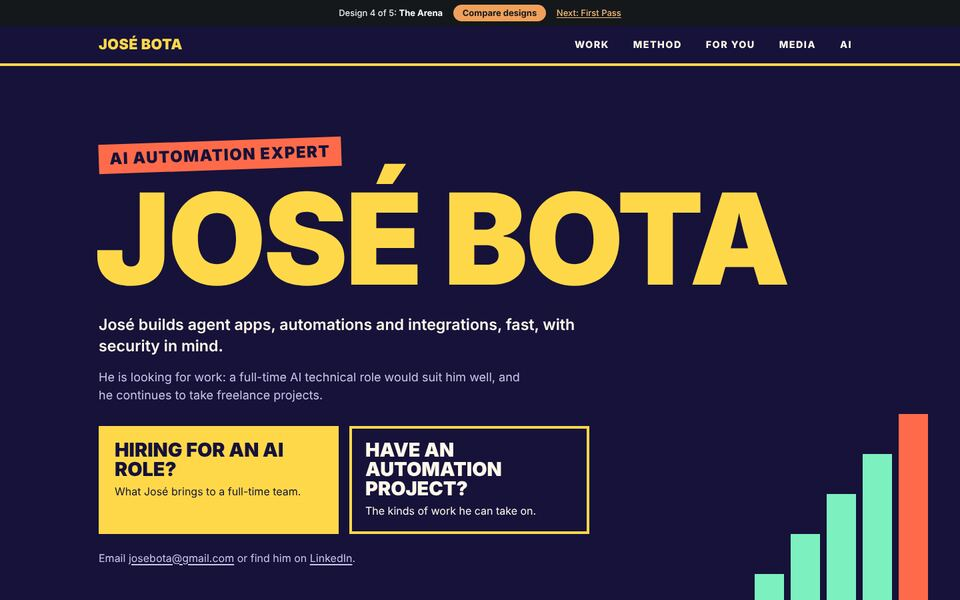
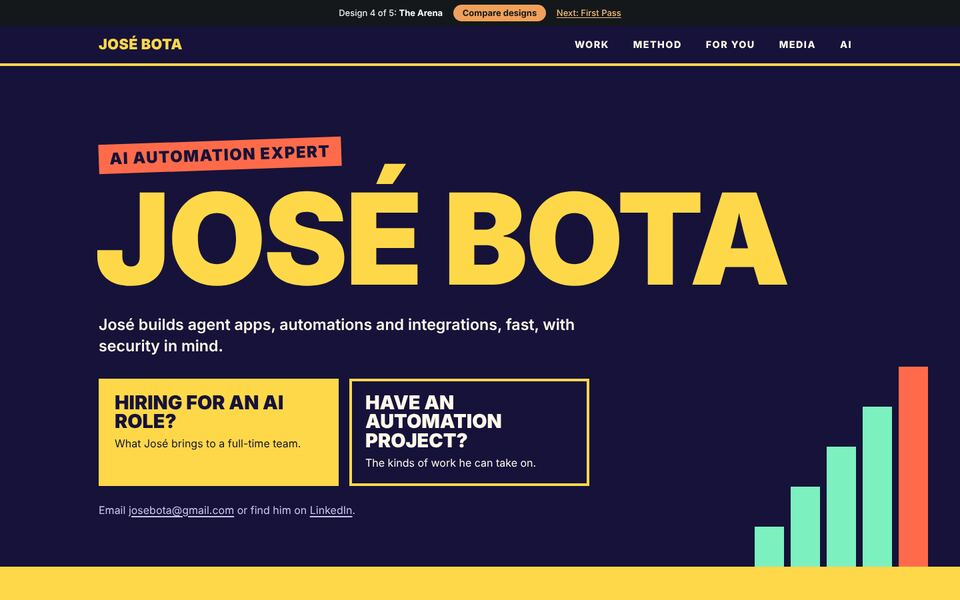
Remove the statement that José is looking for work
At José Bota's word, 16 Nov 2026: "I don't want that part to be included:
He is looking for work ... remove this. just have that José builds agents
app, automations and integrations, fast, with security in mind." On a
branch; not released.

The sentence is gone from every design, for-you/ and index.md, together
with its restatements: The Trace's "Open to work" lines, the page
descriptions, llms.txt, README and the what_it_does field of hub.json.
The two calls to action and the proposal sections stay.

Agent: site@AgentiCCells.jose
Claude-Session: https://claude.ai/code/session_01CqQLD8xdE7so2j3Zqiwt6R

Changed region(s): [[0.0, 0.6, 1.0, 1.0]]

diff --git a/src/d/trace/index.html b/src/d/trace/index.html
@@ -4,7 +4,7 @@
 <meta charset="utf-8">
 <meta name="viewport" content="width=device-width,initial-scale=1">
 <title>José Bota, AI automation expert · The Trace</title>
-<meta name="description" content="José Bota, AI automation expert: he builds agent apps, automations and integrations, fast, with security in mind. Open to a full-time AI role and to freelance work.">
+<meta name="description" content="José Bota, AI automation expert: he builds agent apps, automations and integrations, fast, with security in mind.">
 <meta name="color-scheme" content="dark">
 <meta name="theme-color" content="#0d1114">
 <link rel="canonical" href="https://jose-bota.agenticcells.site/">
@@ -212,7 +212,6 @@ figure.media{border:1px solid var(--line);border-radius:.5rem;background:var(--p
 <p class="rail-label">The Trace</p>
 <h1>José Bota</h1>
 <p class="role">AI automation expert</p>
-<p class="status"><span class="dot" aria-hidden="true"></span><span><strong>Open to work:</strong> a full-time AI technical role, and freelance projects</span></p>
 <nav class="sections" aria-label="Sections">
 <ol>
 <li><a href="#summary"><span class="n" aria-hidden="true">01</span>Summary</a></li>
@@ -241,7 +240,6 @@ figure.media{border:1px solid var(--line);border-radius:.5rem;background:var(--p
 <div><dt>Who</dt><dd>José Bota</dd></div>
 <div><dt>Role</dt><dd>AI automation expert</dd></div>
 <div><dt>Builds</dt><dd>Agent apps, automations and integrations</dd></div>
-<div><dt>Open to</dt><dd>He is looking for work: a full-time AI technical role would suit him well, and he continues to take freelance projects.</dd></div>
 <div><dt>Contact</dt><dd><a href="mailto:josebota@gmail.com">josebota@gmail.com</a> · <a href="https://www.linkedin.com/in/jbota/">LinkedIn</a></dd></div>
 </dl>
 <div class="cta">

diff --git a/src/d/sheet/index.html b/src/d/sheet/index.html
@@ -4,7 +4,7 @@
 <meta charset="utf-8">
 <meta name="viewport" content="width=device-width,initial-scale=1">
 <title>José Bota, AI automation expert · The Fact Sheet</title>
-<meta name="description" content="José Bota, AI automation expert: he builds agent apps, automations and integrations, fast, with security in mind. Open to a full-time AI role and to freelance work.">
+<meta name="description" content="José Bota, AI automation expert: he builds agent apps, automations and integrations, fast, with security in mind.">
 <meta name="color-scheme" content="light">
 <meta name="theme-color" content="#ffffff">
 <link rel="canonical" href="https://jose-bota.agenticcells.site/">
@@ -236,7 +236,7 @@ ol.sources span{display:block;font-size:.9rem;color:var(--muted)}
 <div class="head-grid">
 <div>
 <p class="lead">José builds agent apps, automations and integrations, fast, with security in mind.</p>
-<p class="measure">He is looking for work: a full-time AI technical role would suit him well, and he continues to take freelance projects. Email <a href="mailto:josebota@gmail.com">josebota@gmail.com</a> or find him on <a href="https://www.linkedin.com/in/jbota/">LinkedIn</a>.</p>
+<p class="measure">Email <a href="mailto:josebota@gmail.com">josebota@gmail.com</a> or find him on <a href="https://www.linkedin.com/in/jbota/">LinkedIn</a>.</p>
 </div>
 <div class="cta">
 <a class="primary" href="#full-time"><strong>Hiring for an AI role?</strong><span>What José brings to a full-time team.</span></a>

diff --git a/src/d/arena/index.html b/src/d/arena/index.html
@@ -4,7 +4,7 @@
 <meta charset="utf-8">
 <meta name="viewport" content="width=device-width,initial-scale=1">
 <title>José Bota, AI automation expert · The Arena</title>
-<meta name="description" content="José Bota, AI automation expert: he builds agent apps, automations and integrations, fast, with security in mind. Open to a full-time AI role and to freelance work.">
+<meta name="description" content="José Bota, AI automation expert: he builds agent apps, automations and integrations, fast, with security in mind.">
 <meta name="color-scheme" content="only light">
 <meta name="theme-color" content="#16123a">
 <link rel="canonical" href="https://jose-bota.agenticcells.site/">
@@ -255,7 +255,6 @@ footer a:focus-visible{outline-color:var(--paper);box-shadow:0 0 0 8px var(--ind
 <p class="role">AI automation expert</p>
 <h1><span>José</span> <span>Bota</span></h1>
 <p class="lead">José builds agent apps, automations and integrations, fast, with security in mind.</p>
-<p class="sub">He is looking for work: a full-time AI technical role would suit him well, and he continues to take freelance projects.</p>
 <div class="cta">
 <a class="go" href="#full-time"><strong>Hiring for an AI role?</strong><span>What José brings to a full-time team.</span></a>
 <a href="#projects"><strong>Have an automation project?</strong><span>The kinds of work he can take on.</span></a>

diff --git a/src/d/first/index.html b/src/d/first/index.html
@@ -4,7 +4,7 @@
 <meta charset="utf-8">
 <meta name="viewport" content="width=device-width,initial-scale=1">
 <title>José Bota, AI automation expert · First Pass</title>
-<meta name="description" content="José Bota, AI automation expert: he builds agent apps, automations and integrations, fast, with security in mind. Open to a full-time AI role and to freelance work.">
+<meta name="description" content="José Bota, AI automation expert: he builds agent apps, automations and integrations, fast, with security in mind.">
 <link rel="stylesheet" href="../../assets/chrome.css">
 <link rel="stylesheet" href="../../style.css">
 <link rel="canonical" href="https://jose-bota.agenticcells.site/">
@@ -35,7 +35,6 @@
 <p class="role">AI automation expert</p>
 <h1>José Bota</h1>
 <p class="lead">José builds agent apps, automations and integrations, fast, with security in mind.</p>
-<p>He is looking for work: a full-time AI technical role would suit him well, and he continues to take freelance projects.</p>
 <div class="cta">
 <a class="primary" href="../../for-you/#full-time"><strong>Hiring for an AI role?</strong><span>What José brings to a full-time team.</span></a>
 <a href="../../for-you/#projects"><strong>Have an automation project?</strong><span>The kinds of work he can take on.</span></a>

diff --git a/src/index.html b/src/index.html
@@ -4,7 +4,7 @@
 <meta charset="utf-8">
 <meta name="viewport" content="width=device-width,initial-scale=1">
 <title>José Bota, AI automation expert</title>
-<meta name="description" content="José Bota, AI automation expert: he builds agent apps, automations and integrations, fast, with security in mind. Open to a full-time AI role and to freelance work.">
+<meta name="description" content="José Bota, AI automation expert: he builds agent apps, automations and integrations, fast, with security in mind.">
 <meta name="color-scheme" content="light">
 <meta name="theme-color" content="#f4f1ea">
 <link rel="canonical" href="https://jose-bota.agenticcells.site/">
@@ -371,7 +371,6 @@ footer p{margin:.25rem 0}
 <p class="role">AI automation expert</p>
 <h1>José Bota</h1>
 <p class="lead">José builds agent apps, automations and integrations, fast, with security in mind.</p>
-<p>He is looking for work: a full-time AI technical role would suit him well, and he continues to take freelance projects.</p>
 </div>
 <div class="fork">
 <span class="fork-lines" aria-hidden="true"></span>

diff --git a/src/for-you/index.html b/src/for-you/index.html
@@ -31,7 +31,7 @@
 <main id="main" class="wrap">
 <p class="role">What he can do for you</p>
 <h1>Work with José</h1>
-<p class="lead">He is looking for work: a full-time AI technical role would suit him well, and he continues to take freelance projects.</p>
+<p class="lead">José builds agent apps, automations and integrations, fast, with security in mind.</p>
 
 <p class="note"><strong>Proposal:</strong> the kinds of work below are a proposal drawn from his public work, for José to confirm. They are not a list of past clients or contracts.</p>
 

diff --git a/README.md b/README.md
@@ -1,6 +1,6 @@
 # José Bota
 
-Website and portfolio for José Bota, AI automation expert: agent apps, automations and integrations, built fast, with security in mind. Open to a full-time AI role and to freelance work.
+Website and portfolio for José Bota, AI automation expert: agent apps, automations and integrations, built fast, with security in mind.
 
 Pages (all under `src/`): home, selected work (`work/`), how he works (`how-he-works/`), what he can do for you (`for-you/`), photos and videos (`photos-and-videos/`), and use with AI (`agents/`), plus `llms.txt` and the home page as `index.md`, the master copy of the facts. Static HTML and CSS, with one small script (`src/assets/grid.js`, the home page's pointer-reactive background, which the page works without); nothing loaded from other hosts. The home page prints on four A4 pages; The Fact Sheet is the two-page version.
 

diff --git a/src/index.md b/src/index.md
@@ -2,8 +2,6 @@
 
 **AI automation expert.** José builds agent apps, automations and integrations, fast, with security in mind.
 
-He is looking for work: a full-time AI technical role would suit him well, and he continues to take freelance projects.
-
 - Hiring for an AI role? See [What he can do for you](https://jose-bota.agenticcells.site/for-you/#full-time).
 - Have an automation project? See [What he can do for you](https://jose-bota.agenticcells.site/for-you/#projects).
 - Contact (supplied by José, 2026-11-16): josebota@gmail.com, https://www.linkedin.com/in/jbota/
